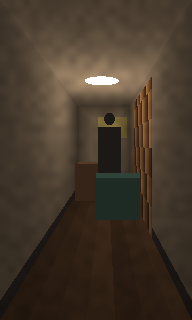
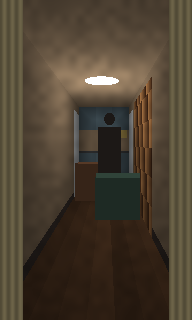
Apartamentos com gente morando: sala com TV e porta-retratos, cozinha, quarto, cortinas e plantas
As janelas acesas (e as apagadas, com a TV iluminando o cômodo) mostram cômodos diferentes, cortinas com dobras e
planta no canto. Sorteio à parte: o resto da cidade não muda de lugar.

Claude-Session: https://claude.ai/code/session_01ShHWFMPR7eF5CxzvREsNRy

Changed region(s): [[0.875, 0.0, 1.0, 1.0], [0.0, 0.0, 0.125, 1.0], [0.375, 0.3125, 0.7188, 0.625]]

diff --git a/engine/tools/times_square.py b/engine/tools/times_square.py
@@ -533,6 +533,37 @@ def interior_image(rng, w, h, room_w, room_h, depth, kind, lit, tint):
         books = (hit == side) & (Z > depth * 0.3) & (Z < depth * 0.75) & (Y < 1.9)
         bk = ((np.floor(Z / 0.05) * 5.1 + np.floor(Y / 0.35) * 3.7) % 1.0)
         img[books] = (np.array([120, 70, 40]) * 0.5 + np.array([200, 150, 90]) * bk[..., None] * 0.6)[books]
+    # Quem mora ali (gerador próprio, derivado do que já foi sorteado: o resto da cidade não muda de lugar): sala com
+    # TV acesa e porta-retratos, cozinha com armários e geladeira, ou quarto com cama e abajur; cortinas e planta.
+    viz = random.Random(hash((round(depth, 5), tuple(round(c, 4) for c in tint), lit, w, h)))
+    tv_glow = None
+    if kind != 'loja':
+        comodo = viz.choice(['sala', 'sala', 'cozinha', 'quarto'])
+        if comodo == 'sala':
+            for _ in range(viz.randrange(1, 4)):  # porta-retratos na lateral
+                zc, yc = viz.uniform(depth * 0.25, depth * 0.8), viz.uniform(1.2, 1.7)
+                fr = ((hit == 3) | (hit == 4)) & (np.abs(Z - zc) < 0.13) & (np.abs(Y - yc) < 0.1)
+                img[fr] = (40, 32, 28)
+                foto = fr & (np.abs(Z - zc) < 0.1) & (np.abs(Y - yc) < 0.075)
+                img[foto] = np.array(viz.choice([(190, 160, 130), (120, 150, 180), (200, 190, 170)]))
+            if viz.random() < 0.45:  # TV acesa na parede do fundo, iluminando o quarto de azul
+                xc = room_w * viz.uniform(0.35, 0.65)
+                tv = (hit == 0) & (np.abs(X - xc) < 0.32) & (np.abs(Y - 1.05) < 0.19)
+                tela = tv & (np.abs(X - xc) < 0.3) & (np.abs(Y - 1.05) < 0.17)
+                img[tv] = (15, 15, 18)
+                img[tela] = np.array(viz.choice([(120, 170, 255), (255, 200, 150), (150, 255, 180), (230, 230, 255)]))
+                tv_glow = (xc, 1.05, depth, tela)
+        elif comodo == 'cozinha':  # armários em cima e embaixo no fundo, bancada, geladeira numa lateral
+            arm = (hit == 0) & (((Y > 1.45) & (Y < 2.0)) | (Y < 0.88))
+            porta = (np.floor(X / 0.4) % 2)
+            img[arm] = (np.array(viz.choice([(225, 222, 215), (150, 110, 75), (90, 110, 120)])) * (0.92 + 0.08 * porta[..., None]))[arm]
+            img[(hit == 0) & (np.abs(Y - 0.9) < 0.025)] = (70, 70, 72)
+            ge = ((hit == 3) | (hit == 4)) & (Z > depth - 0.9) & (Y < 1.8)
+            img[ge] = (205, 208, 210)
+        else:  # quarto: cama baixa com colcha colorida no fundo, abajur quente
+            cama = (hit == 0) & (Y < 0.55)
+            img[cama] = np.array(viz.choice([(170, 60, 60), (60, 90, 140), (200, 190, 170), (90, 120, 80)]))
+            img[(hit == 0) & (Y >= 0.55) & (Y < 0.95) & (np.abs(X - room_w / 2) < room_w * 0.4)] = (110, 85, 60)
     # luz: luminária no teto perto do centro, queda com a distância, cantos mais escuros (oclusão)
     lx, ly, lz = room_w / 2, room_h - 0.05, depth * 0.45
     dist2 = (X - lx) ** 2 + (Y - ly) ** 2 + (Z - lz) ** 2
@@ -549,6 +580,28 @@ def interior_image(rng, w, h, room_w, room_h, depth, kind, lit, tint):
     if not lit:
         light = light * 0.06 + 0.02
     img = img * light[..., None] * (0.92 + 0.16 * noise[..., None])
+    if tv_glow is not None:  # a TV ilumina o quarto (mais ainda com a luz apagada) e a tela não escurece
+        xc, yc, zc, tela = tv_glow
+        g = 1.0 / (1.0 + ((X - xc) ** 2 + (Y - yc) ** 2 + (Z - zc) ** 2) * 1.5)
+        cor = img[tela].mean(0) if tela.any() else np.array([120, 160, 230])
+        img = img + (cor / 255.0 * 90.0 * (1.6 if not lit else 0.6))[None, None, :] * g[..., None]
+        img[tela] = img[tela] * 0 + cor * (1.0 if lit else 0.9)
+    if kind != 'loja' and viz.random() < 0.6:  # cortinas nas bordas da janela, com dobras
+        cw = int(w * viz.uniform(0.12, 0.3))
+        cc = np.array(viz.choice([(200, 190, 170), (150, 40, 45), (60, 80, 120), (210, 205, 200), (120, 110, 80)]), float)
+        cc = cc * (0.9 if lit else 0.12)
+        xs = np.arange(w)
+        dobra = 0.75 + 0.25 * np.sin(xs / max(2, w / 24) * math.pi) ** 2
+        for borda in (0, 1):
+            sl = slice(0, cw) if borda == 0 else slice(w - cw, w)
+            img[:, sl] = cc * dobra[sl][None, :, None]
+    if kind != 'loja' and viz.random() < 0.35:  # planta no canto perto da janela
+        px0 = int(w * viz.choice([0.12, 0.72]))
+        pw = int(w * 0.16)
+        yy, xx = np.mgrid[0:h, 0:w]
+        folha = ((xx - px0 - pw / 2) ** 2 / (pw / 2) ** 2 + (yy - h * 0.62) ** 2 / (h * 0.16) ** 2) < 1
+        img[folha] = np.array([40, 75, 35]) * (0.9 if lit else 0.15)
+        img[(np.abs(xx - px0 - pw / 2) < pw * 0.3) & (yy > h * 0.74) & (yy < h * 0.86)] = (120, 70, 45) if lit else (15, 10, 8)
     im = Image.fromarray(np.clip(img, 0, 255).astype(np.uint8))
     # silhuetas em profundidade (móveis, gente): projetadas pela mesma câmera
     d = ImageDraw.Draw(im)
